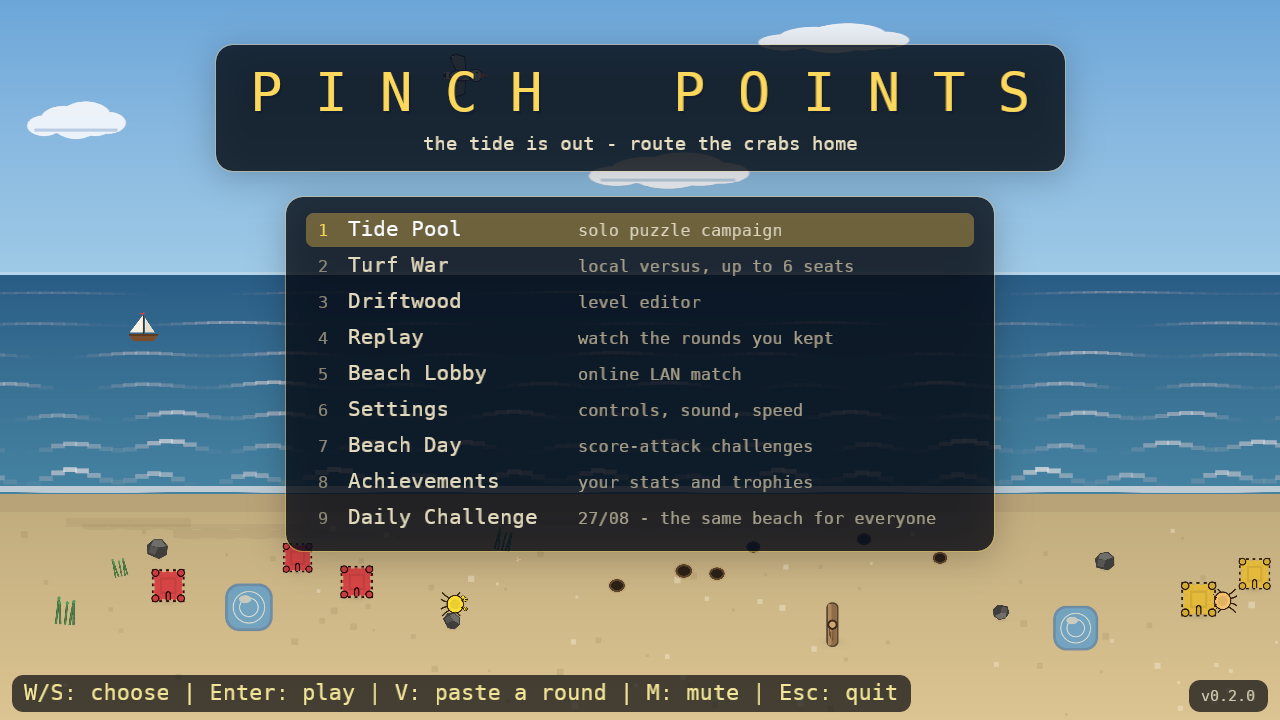
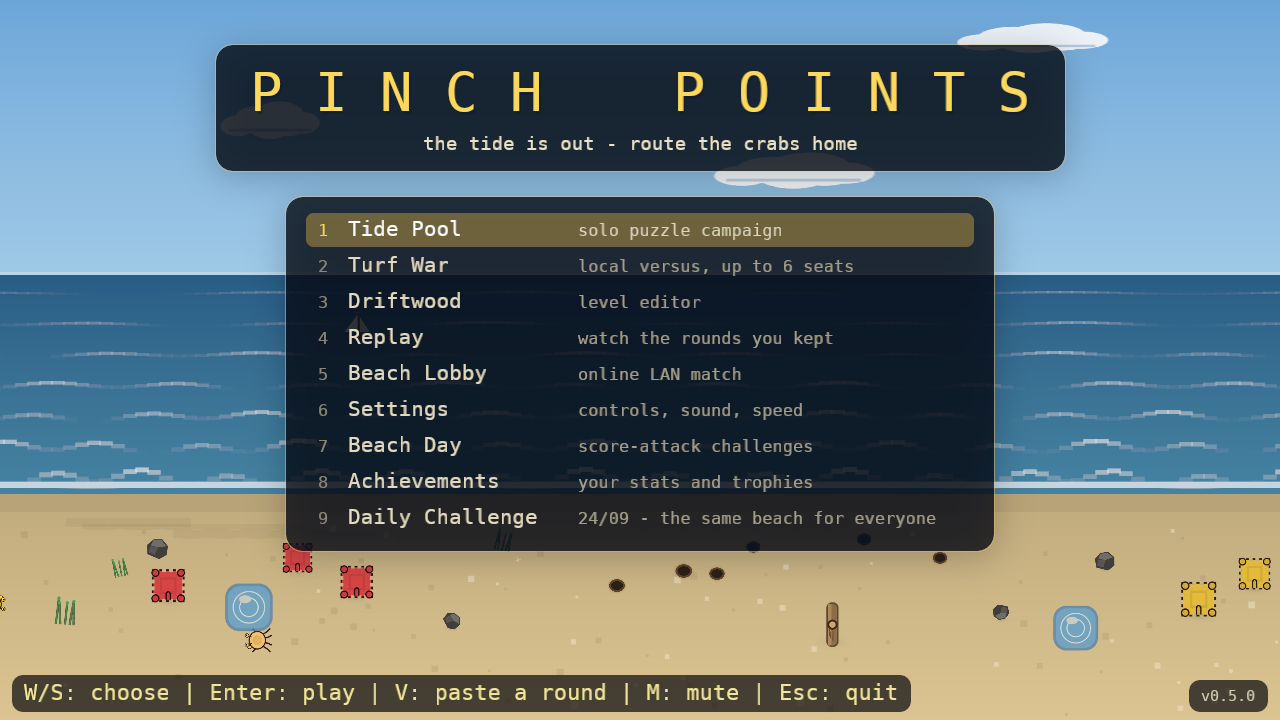
Retake the screenshots on v0.5.0, and add the lobby
The set dated from 27 August and had drifted: the Old Mill's header
still counted 110 stages. Shot from the v0.5.0 release binary through the
PINCH_* hooks at 1280x720; the lure is a frame of a recorded round, which
catches the whole beach mid-turn, and pulls to P2 now, so the guide's
caption follows. lobby.png is new: a hosted beach with four friends
aboard, shot from five real processes on one machine.

diff --git a/docs/guide.md b/docs/guide.md
@@ -90,7 +90,7 @@ tiles, ignoring walls and arrows, so no corner is ever fully safe.
 live event feed on the right. A lure, a tide event or the gull surge is
 announced across the centre of the screen as well.
 
-![The lure: banking a molting crab turns every loose crab the luring player's colour and pulls it home - here, to green P3](screenshots/lure.png)
+![The lure: banking a molting crab turns every loose crab the luring player's colour and pulls it home - here, to P2](screenshots/lure.png)
 
 **The tide.** The clock turns red for the last 30 seconds and the gull
 surge doubles; when the tide comes in, the highest bank wins.
